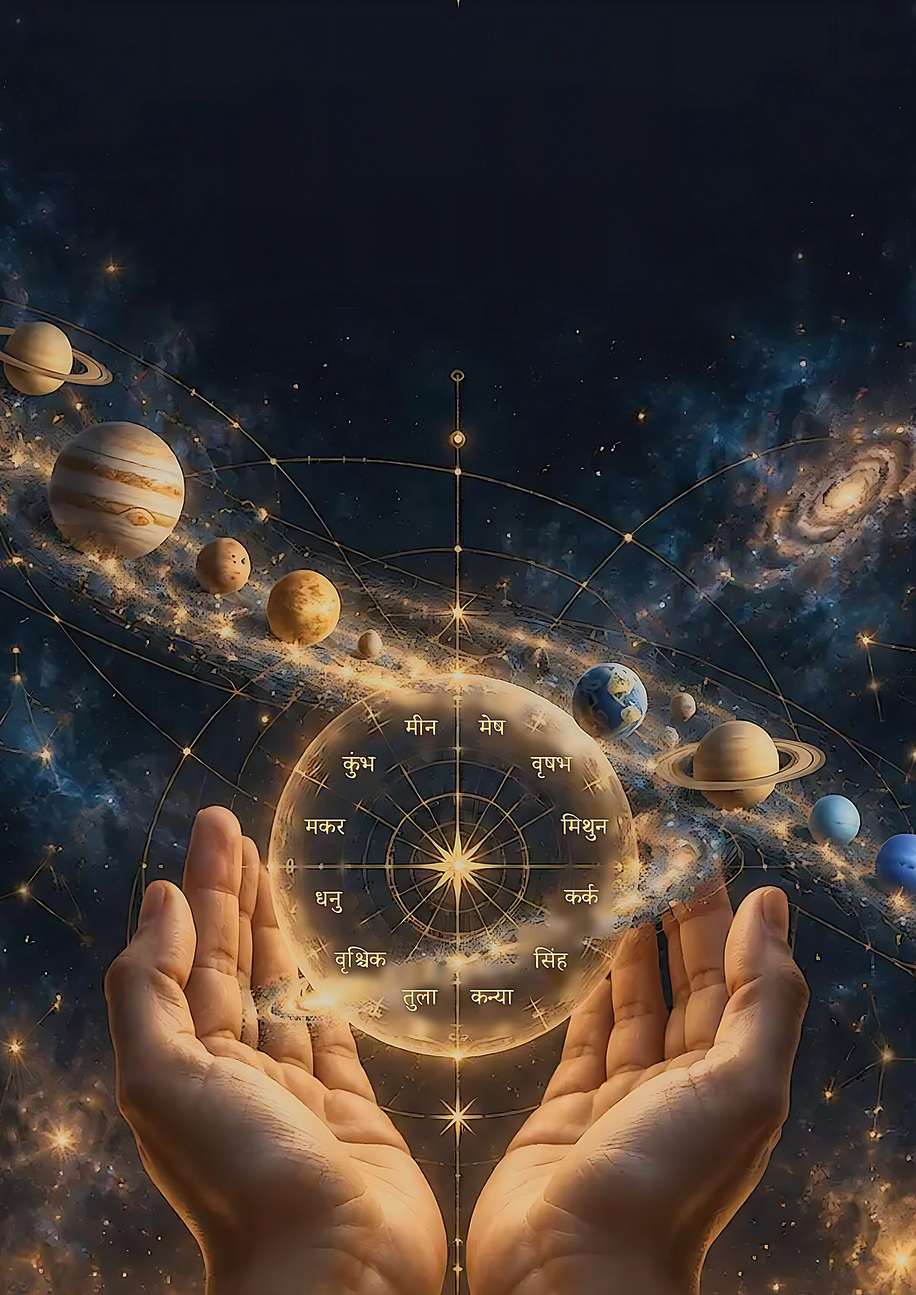
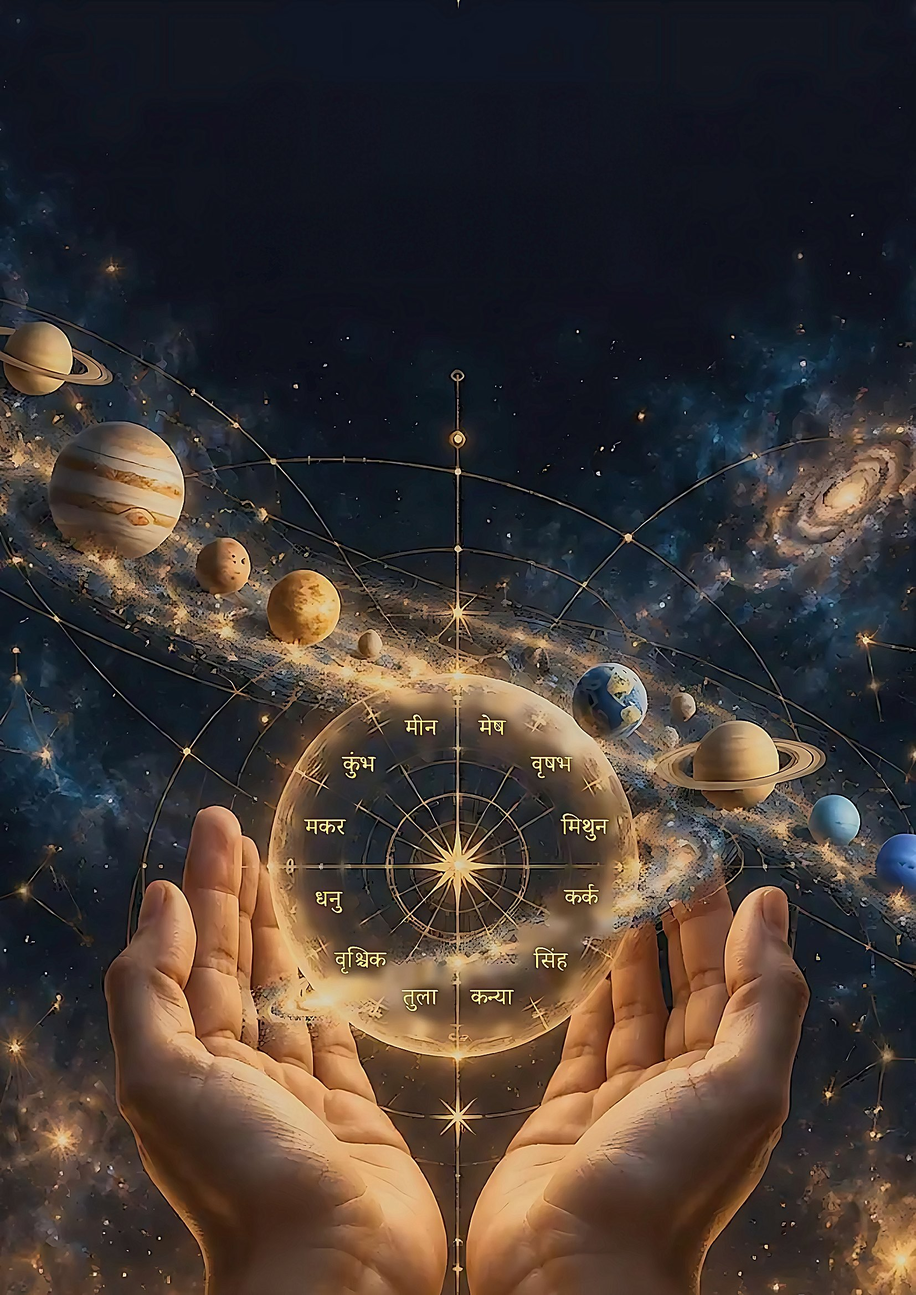
Round 3c: pill text vertically centred, signature on Before You Begin, cleaner/sharper chapter art
Claude-Session: https://claude.ai/code/session_01TajgMe4WgAiLq68tE4NK1s

diff --git a/report/static/css/report.css b/report/static/css/report.css
@@ -284,7 +284,7 @@ p.has-dc::after { content: ""; display: block; clear: both; height: 0; }
 .lean .l { display: flex; flex-wrap: wrap; gap: 3pt 11pt; margin-top: 12pt; font: 300 7.6pt/11pt var(--sans); color: var(--body); }
 .lean .l span { margin-right: 11pt; white-space: nowrap; }
 
-.pill { flex: none; display: inline-flex; align-items: center; justify-content: center; height: 11.5pt; padding: 0 12pt 0 calc(12pt + .26em); border-radius: 6pt;
+.pill { flex: none; display: inline-flex; align-items: center; justify-content: center; height: 11.5pt; padding: 2.8pt 12pt 0 calc(12pt + .26em); border-radius: 6pt;
         font: 600 4.4pt/1 var(--sans); letter-spacing: .26em; text-transform: uppercase; white-space: nowrap; }
 .pill-best { background: linear-gradient(180deg, #e9cf94, #c9a565); color: #191104; }
 .pill-good { background: #2b3f88; color: #dbe4ff; }
@@ -464,3 +464,6 @@ p.closing.sep { border-top: .6pt solid var(--line); margin-top: 14pt; padding-to
 /* centred, letter-spaced labels: the space after the last letter would push the text left, so balance it */
 .sign-card .eyebrow, .const-card .eyebrow, .consult-card .eyebrow, .running-center, .grid .hd span, .jbar .mm span { padding-left: var(--track); }
 .pill { text-indent: 0; }
+
+.serif-body .sig-r { margin: 6pt 0 0; text-align: right; }
+.serif-body .sig-r em { font: 400 30pt/1.1 var(--script); font-style: normal; color: var(--gold-light); }

diff --git a/tools/art_clean.py b/tools/art_clean.py
@@ -112,10 +112,15 @@ def erase_cover_placeholder(img: Image.Image, region=(0.20, 0.822, 0.80, 0.935))
 
 
 def sharpen(img: Image.Image, amount: float = 1.0, radius: float = 1.6) -> Image.Image:
-    a = np.array(img.convert("RGB")).astype(np.float32)
-    b = cv2.GaussianBlur(a, (0, 0), radius)
-    fine = cv2.GaussianBlur(a, (0, 0), 0.7)                      # second, finer pass for small detail
-    return Image.fromarray(np.clip(a + (a - b) * amount + (a - fine) * 0.6, 0, 255).astype(np.uint8))
+    """Clean up soft, blotchy artwork: edge-preserving smoothing (removes the JPEG / upscaling blotches), then
+    two-scale sharpening of the brightness only, so edges get crisp without colour noise."""
+    a = cv2.bilateralFilter(np.array(img.convert("RGB")), 7, 14, 4)
+    lab = cv2.cvtColor(a, cv2.COLOR_RGB2LAB).astype(np.float32)
+    L = lab[..., 0]
+    for r, k in ((0.9, 1.1 * amount), (2.4, 0.7 * amount)):
+        L = L + (L - cv2.GaussianBlur(L, (0, 0), r)) * k
+    lab[..., 0] = np.clip(L, 0, 255)
+    return Image.fromarray(cv2.cvtColor(lab.astype(np.uint8), cv2.COLOR_LAB2RGB))
 
 
 # ------------------------------------------------------------------ gemstone pictures
